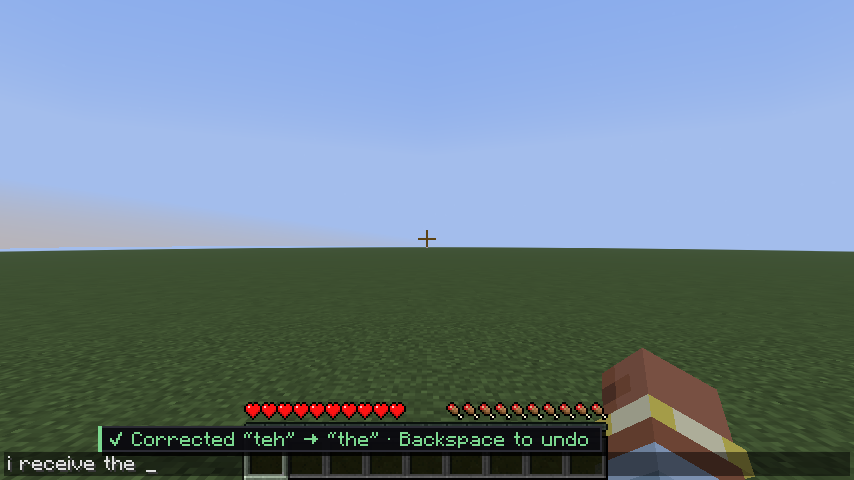
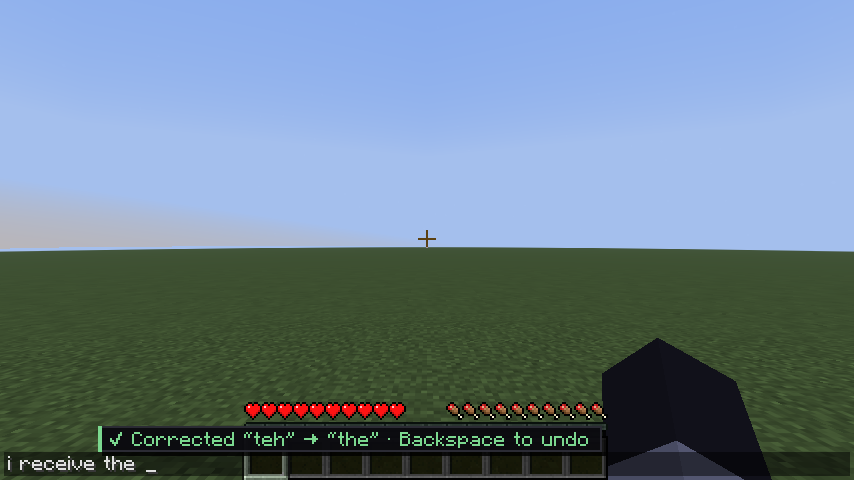
Chat Spellcheck 2.0.1
- Suggest and autocorrect Minecraft words (minectaft -> minecraft).
- Buy Me a Coffee link and GitHub Sponsor button.
- New screenshots.

Changed region(s): [[0.7002, 0.6875, 0.9133, 1.0]]

diff --git a/src/gametest/java/dev/chatspellcheck/gametest/ChatSpellcheckClientGameTest.java b/src/gametest/java/dev/chatspellcheck/gametest/ChatSpellcheckClientGameTest.java
@@ -108,6 +108,8 @@ public class ChatSpellcheckClientGameTest implements FabricClientGameTest {
 		check(after.typosFixed() == before.typosFixed() + 1, "fixes: " + before.typosFixed() + " -> " + after.typosFixed());
 		check(after.wordsChecked() == before.wordsChecked() + 6, "words: " + before.wordsChecked() + " -> " + after.wordsChecked());
 		check(after.streak() == before.streak() + 1, "a clean message adds to the streak");
+		waitMillis(ctx, 1000); // the server echoes the message back a moment later
+		ctx.runOnClient(mc -> mc.gui.hud.getChat().clearMessages(false)); // keep later screenshots clean
 		hover(ctx, 2, 2);
 	}
 
@@ -254,6 +256,7 @@ public class ChatSpellcheckClientGameTest implements FabricClientGameTest {
 	}
 
 	private void keyboardSelectionAndEscapeLayering(ClientGameTestContext ctx) {
+		waitMillis(ctx, 700); // let the sparkle from the previous fix fade out of the screenshot
 		ctx.runOnClient(mc -> input(mc).moveCursorTo("i receive te".length(), false));
 		pressShortcut(ctx);
 		check(ctx.computeOnClient(mc -> overlay(mc).popoverIsKeyboard()), "Ctrl+. should open the keyboard popover");
@@ -685,6 +688,11 @@ public class ChatSpellcheckClientGameTest implements FabricClientGameTest {
 		ctx.getInput().typeChars("so Zorblax said wnat yeet ok. ");
 		waitMillis(ctx, 1500);
 		check(value(ctx).equals("so Zorblax said wnat yeet ok. "), "names, ambiguous typos and slang must be left alone: " + value(ctx));
+
+		// Minecraft words are fixed too, not just dictionary words.
+		ctx.runOnClient(mc -> input(mc).setValue(""));
+		ctx.getInput().typeChars("i love minectaft ");
+		waitForValue(ctx, "i love minecraft ");
 
 		// Sentence start, and a fix that is longer than the typo (cursor must follow).
 		ctx.runOnClient(mc -> input(mc).setValue(""));

diff --git a/src/gametest/java/dev/chatspellcheck/gametest/mixin/ScreenshotSkinMixin.java b/src/gametest/java/dev/chatspellcheck/gametest/mixin/ScreenshotSkinMixin.java
@@ -1,0 +1,24 @@
+package dev.chatspellcheck.gametest.mixin;
+
+import net.minecraft.client.player.AbstractClientPlayer;
+import net.minecraft.core.ClientAsset;
+import net.minecraft.resources.Identifier;
+import net.minecraft.world.entity.player.PlayerModelType;
+import net.minecraft.world.entity.player.PlayerSkin;
+import org.spongepowered.asm.mixin.Mixin;
+import org.spongepowered.asm.mixin.injection.At;
+import org.spongepowered.asm.mixin.injection.Inject;
+import org.spongepowered.asm.mixin.injection.callback.CallbackInfoReturnable;
+
+/** Test-only: the screenshot player wears a Batman skin instead of the default one. */
+@Mixin(AbstractClientPlayer.class)
+public abstract class ScreenshotSkinMixin {
+	private static final PlayerSkin CHATSPELLCHECK_TEST$SKIN = PlayerSkin.insecure(
+		new ClientAsset.ResourceTexture(Identifier.fromNamespaceAndPath("chatspellcheck-gametest", "skin/batman")),
+		null, null, PlayerModelType.WIDE);
+
+	@Inject(method = "getSkin", at = @At("HEAD"), cancellable = true)
+	private void chatspellcheckTest$skin(CallbackInfoReturnable<PlayerSkin> cir) {
+		cir.setReturnValue(CHATSPELLCHECK_TEST$SKIN);
+	}
+}

diff --git a/README.md b/README.md
@@ -14,7 +14,7 @@ Client-side Fabric mod · works on any server · fully offline
 
 [▶ Watch the 18-second demo on YouTube](https://youtu.be/L_5H6EEQymU)
 
-[Download](https://github.com/BlueDreams666/chat-spellcheck/releases/latest) · [Report a bug](https://github.com/BlueDreams666/chat-spellcheck/issues)
+[Download](https://github.com/BlueDreams666/chat-spellcheck/releases/latest) · [Report a bug](https://github.com/BlueDreams666/chat-spellcheck/issues) · [☕ Buy me a coffee](https://buymeacoffee.com/bluedreams)
 
 </div>
 
@@ -56,8 +56,8 @@ Client-side Fabric mod · works on any server · fully offline
 
 | Minecraft | Mod JAR | Fabric API |
 |---|---|---|
-| 26.3 | `chat-spellcheck-2.0.0+26.3.jar` | 0.162.0+26.3 |
-| 26.2 | `chat-spellcheck-2.0.0+26.2.jar` | 0.161.0+26.2 |
+| 26.3 | `chat-spellcheck-2.0.1+26.3.jar` | 0.162.0+26.3 |
+| 26.2 | `chat-spellcheck-2.0.1+26.2.jar` | 0.161.0+26.2 |
 
 The JAR is about 19 MB because it includes every dictionary, but only the languages you turn on are loaded into memory.
 

diff --git a/CHANGELOG.md b/CHANGELOG.md
@@ -1,5 +1,11 @@
 # Changelog
 
+## 2.0.1
+
+- Minecraft words are now suggested for typos, and autocorrect can fix them: "minectaft" → "minecraft", "netherrite" → "netherite". Before, only dictionary words were offered.
+
+Separate builds support Minecraft 26.2 and 26.3 with Fabric.
+
 ## 2.0.0
 
 A big update to make Chat Spellcheck friendlier from the first message.
